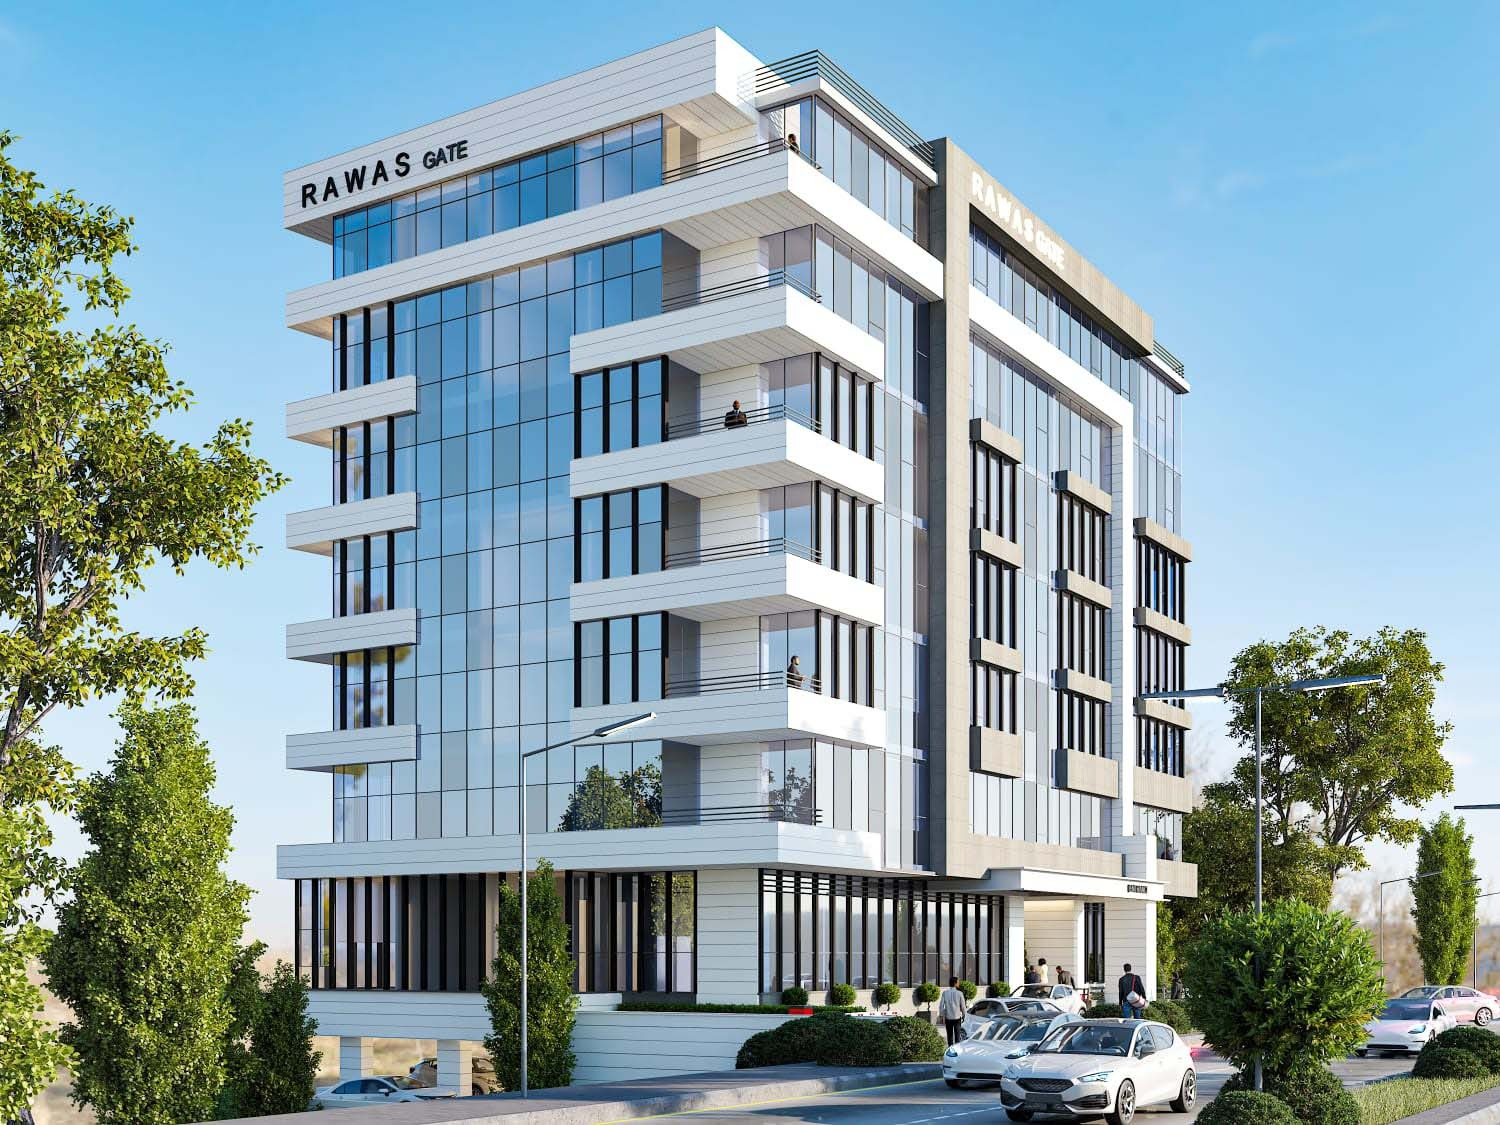
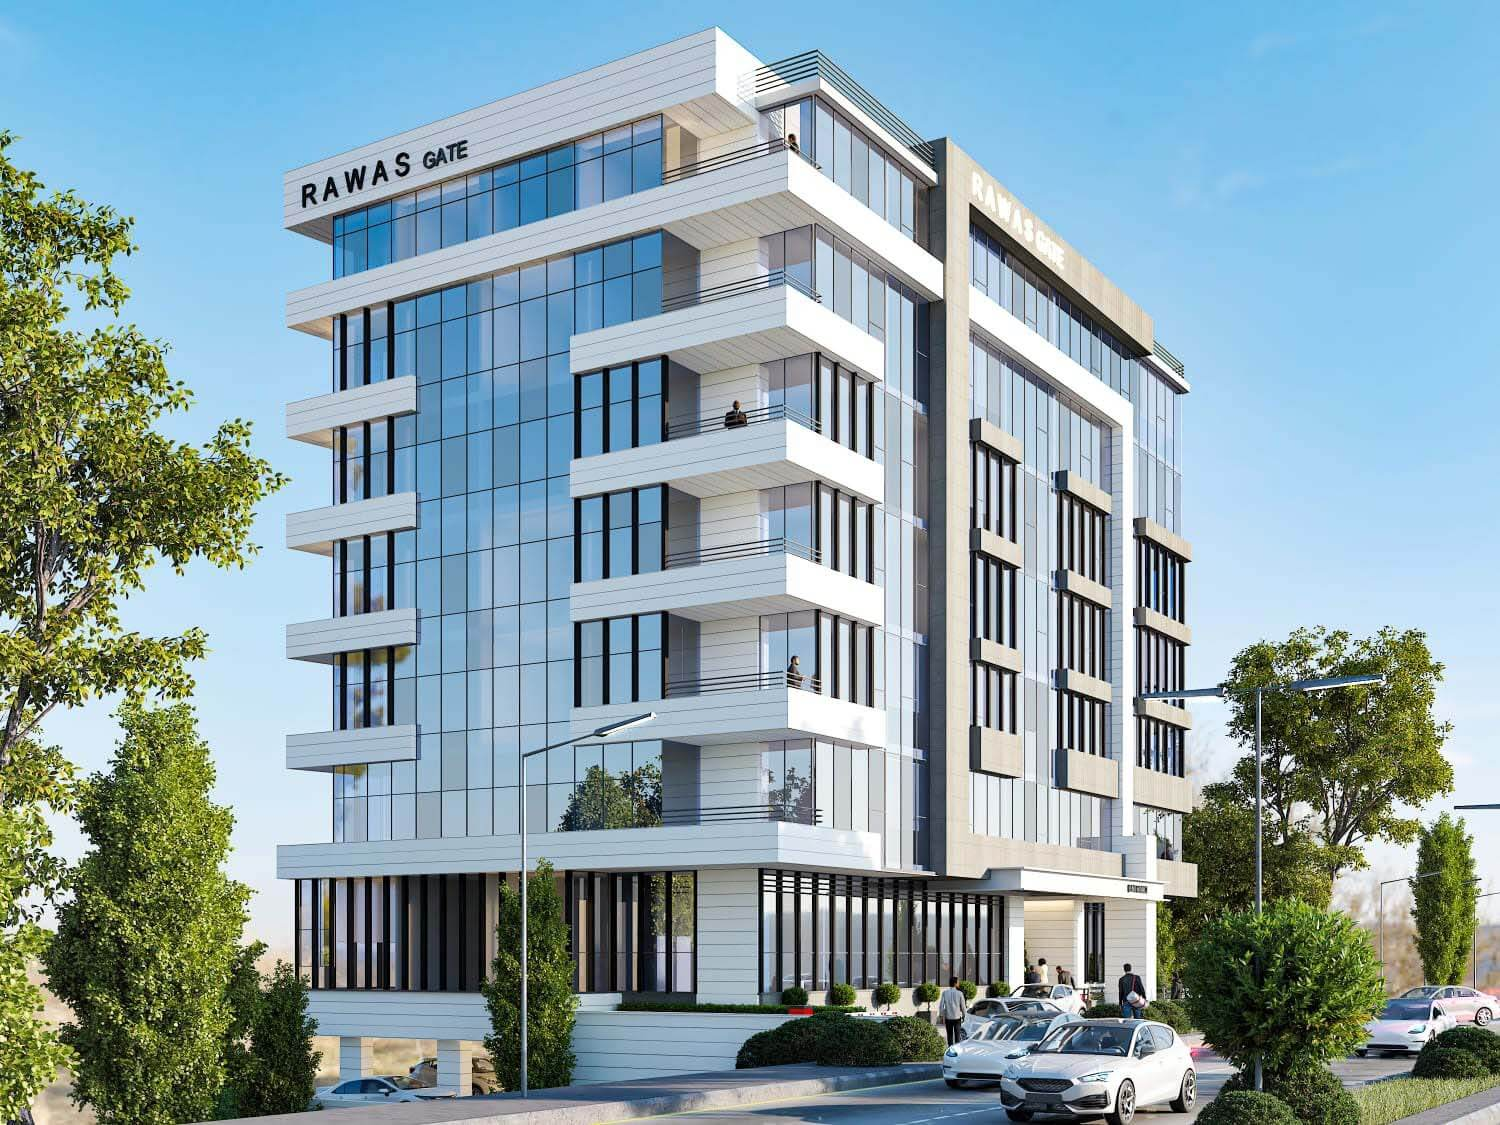
Add responsive background images for About Us and Home sections

diff --git a/src/components/pages/AboutUs.css b/src/components/pages/AboutUs.css
@@ -9,6 +9,24 @@
     transform: translate(0px, -4rem);
 }
 
+@media (max-width: 1024px) {
+    .about-us-header-section {
+        background-image: url('/images/real-estate-web-banner-medium.jpeg');
+    }
+}
+
+@media (max-width: 900px) and (orientation: portrait) {
+    .about-us-header-section {
+        background-image: url('/images/real-estate-web-banner-portrait.jpeg');
+    }
+}
+
+@media (max-width: 750px) and (orientation: portrait) {
+    .about-us-header-section {
+        background-image: url('/images/real-estate-web-banner-portrait-medium.jpeg');
+    }
+}
+
 .about-us-header-section::before {
     content: '';
     position: absolute;

diff --git a/src/components/pages/Home.css b/src/components/pages/Home.css
@@ -9,6 +9,24 @@
     transform: translate(0px, -4rem);
 }
 
+@media (max-width: 1024px) {
+    .header-section {
+        background-image: url('/images/real-estate-web-banner-medium.jpeg');
+    }
+}
+
+@media (max-width: 900px) and (orientation: portrait) {
+    .header-section {
+        background-image: url('/images/real-estate-web-banner-portrait.jpeg');
+    }
+}
+
+@media (max-width: 750px) and (orientation: portrait) {
+    .header-section {
+        background-image: url('/images/real-estate-web-banner-portrait-medium.jpeg');
+    }
+}
+
 .header-section::before {
     content: '';
     position: absolute;
